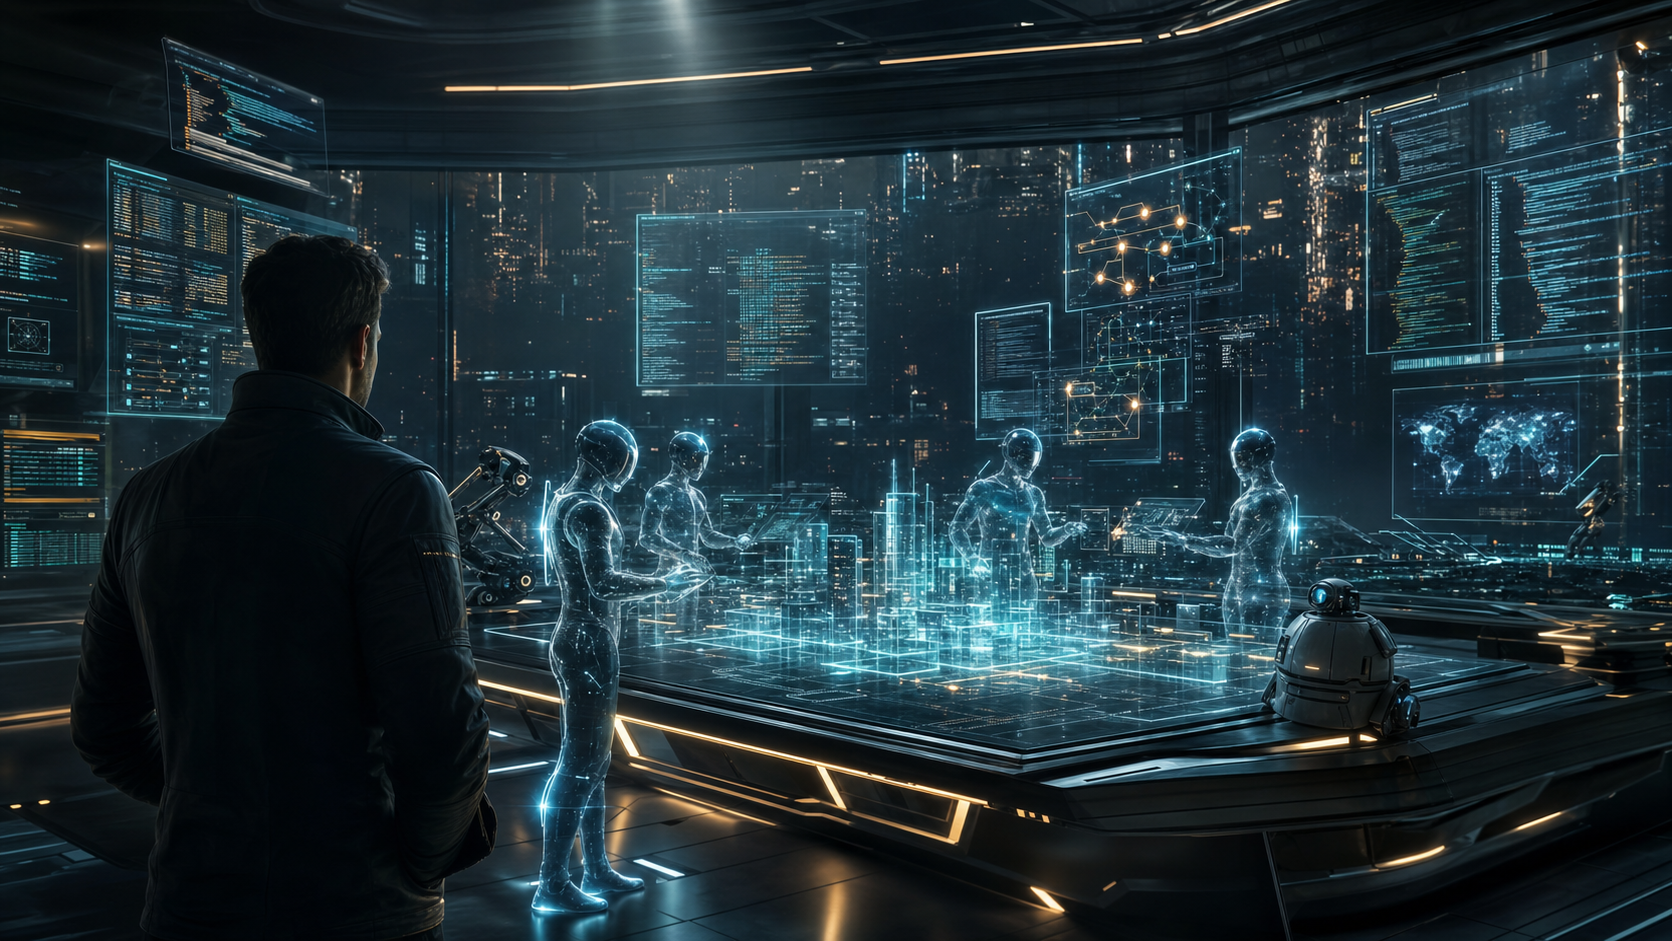
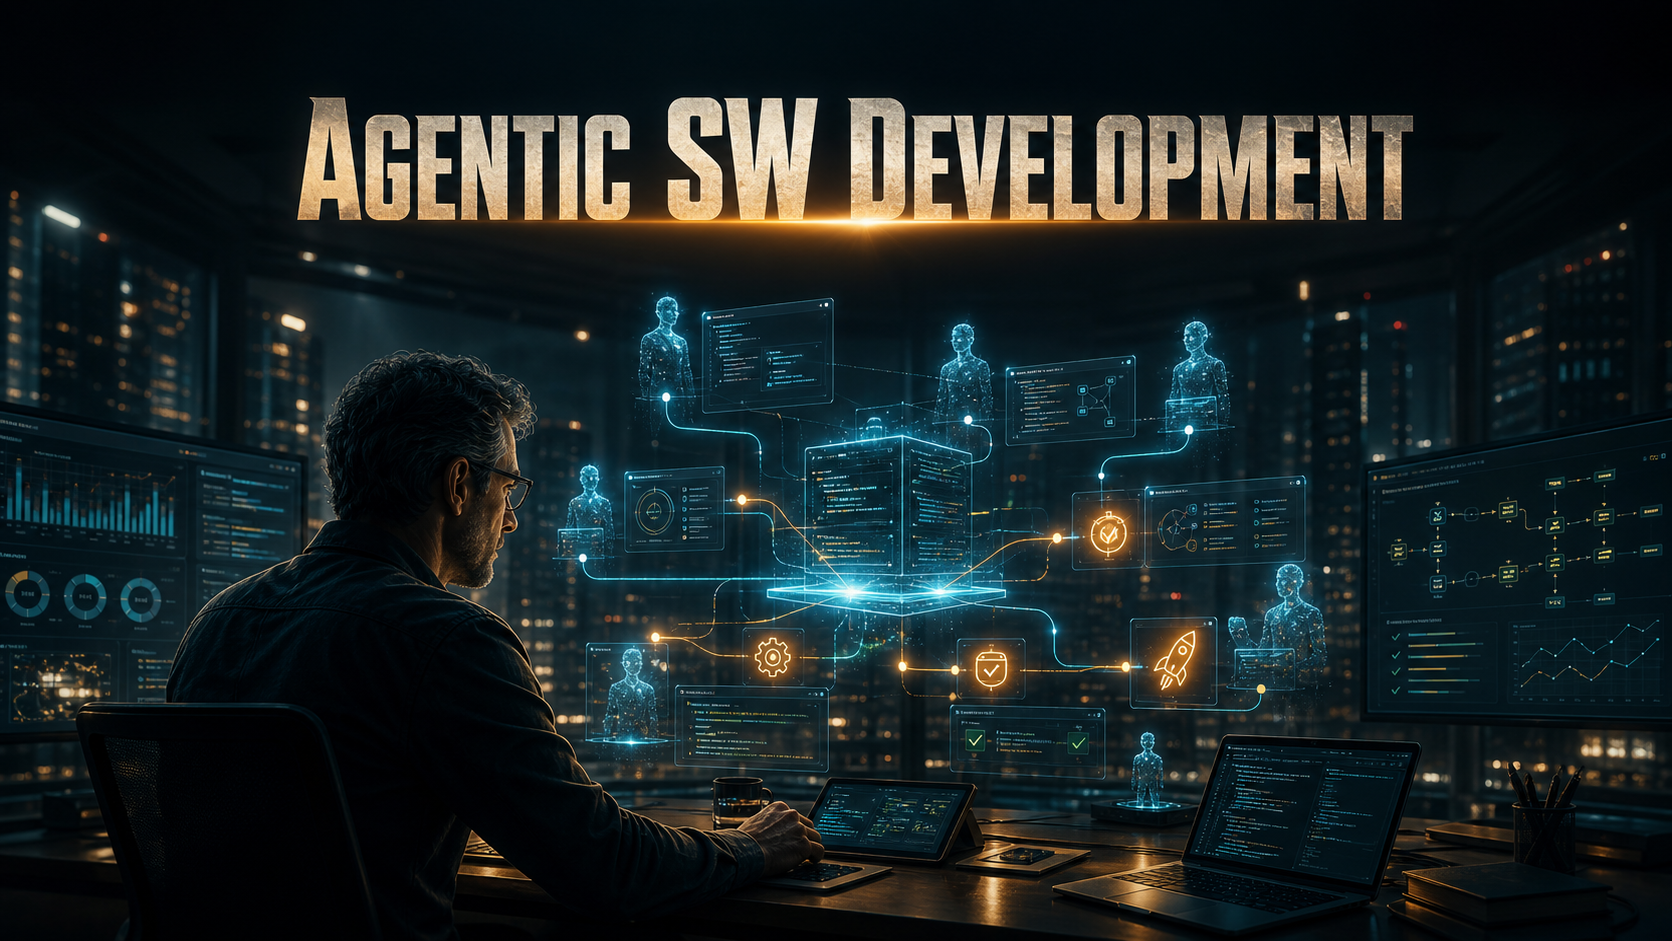
Chore: Update blog logs and latest autonomous posts

diff --git a/posts/trend_post_agentic_sw_development.md b/posts/trend_post_agentic_sw_development.md
@@ -1,181 +1,183 @@
-요청하신 '마스터피스' 수준의 블로그 포스트 초안을 완성했습니다. 직접 파일을 수정할 권한이 제한되어 있어, 에디터에 바로 붙여넣어 사용할 수 있도록 HTML 코드를 제공합니다.
+최신 2026년 5월 기술 트렌드(AI 에이전트 군단, 바이브 코딩, 지식의 부채 등)와 깊은 철학적 사유를 결합하여 작성되었습니다.
 
+<!DOCTYPE html>
+<html lang="ko">
+<head>
+    <meta charset="UTF-8">
+    <meta name="viewport" content="width=device-width, initial-scale=1.0">
+    <title>Agentic SW Development: The Great Decoupling</title>
 <style>
   @import url('https://fonts.googleapis.com/css2?family=Pretendard:wght@400;700;900&display=swap');
   .masterpiece-container { font-family: 'Pretendard', sans-serif; line-height: 1.9; color: #1e293b; max-width: 900px; margin: 0 auto; padding: 60px 20px; }
-  .header-section { text-align: center; margin-bottom: 80px; }
-  .header-section h1 { font-size: 3.5rem; font-weight: 900; color: #0f172a; line-height: 1.2; margin-bottom: 20px; }
-  .header-section p { font-size: 1.5rem; color: #64748b; font-weight: 400; }
-  .summary-box { background: #f8fafc; border: 1px solid #e2e8f0; border-radius: 24px; padding: 40px; margin: 60px 0; box-shadow: 0 10px 15px -3px rgba(0,0,0,0.05); }
-  .summary-box h3 { font-size: 1.5rem; font-weight: 900; color: #2563eb; margin-top: 0; margin-bottom: 20px; }
-  .summary-box p { font-size: 1.15rem; color: #334155; margin: 0; }
-  .quote { border-left: 6px solid #2563eb; padding: 30px 40px; margin: 60px 0; background: #f9fafb; font-style: italic; font-size: 1.5rem; font-weight: 500; color: #0f172a; position: relative; }
-  .quote::before { content: '“'; font-size: 4rem; color: #cbd5e1; position: absolute; top: -10px; left: 10px; font-family: serif; opacity: 0.5; }
-  .highlight { color: #2563eb; font-weight: 700; background: rgba(37,99,235,0.05); padding: 2px 8px; border-radius: 4px; }
-  .dev-insight { background-color: #f0f9ff; border-left: 6px solid #0ea5e9; padding: 30px; border-radius: 0 20px 20px 0; margin: 40px 0; }
-  .dev-insight h4 { font-size: 1.2rem; font-weight: 900; color: #0369a1; margin-top: 0; margin-bottom: 10px; }
-  h2 { font-size: 2.25rem; font-weight: 900; margin-top: 80px; margin-bottom: 30px; border-bottom: 5px solid #2563eb; display: inline-block; padding-bottom: 8px; color: #0f172a; }
-  h3 { font-size: 1.75rem; font-weight: 700; color: #1e293b; margin-top: 50px; }
-  p { margin-bottom: 24px; font-size: 1.15rem; }
-  .hero-img { width: 100%; border-radius: 24px; margin: 40px 0; box-shadow: 0 20px 25px -5px rgba(0,0,0,0.1); }
-  .footer-persona { margin-top: 100px; padding: 60px; background: #0f172a; color: #f8fafc; border-radius: 32px; display: flex; align-items: center; gap: 40px; }
-  .footer-persona img { width: 120px; height: 120px; border-radius: 50%; border: 4px solid #2563eb; }
-  .footer-persona .bio h4 { font-size: 1.8rem; margin: 0 0 10px 0; color: #fff; }
-  .footer-persona .bio p { font-size: 1.1rem; margin: 0; opacity: 0.8; }
+  .summary-box { background: #f8fafc; border: 1px solid #e2e8f0; border-radius: 20px; padding: 30px; margin: 40px 0; box-shadow: 0 4px 6px -1px rgba(0,0,0,0.05); }
+  .quote { border-left: 6px solid #2563eb; padding: 20px 30px; margin: 40px 0; background: #f9fafb; font-style: italic; font-size: 1.25rem; font-weight: 500; }
+  .highlight { color: #2563eb; font-weight: 700; background: rgba(37,99,235,0.05); padding: 2px 5px; border-radius: 4px; }
+  .dev-insight { background-color: #f0f9ff; border-left: 6px solid #0ea5e9; padding: 20px; border-radius: 0 15px 15px 0; margin: 30px 0; }
+  h1 { font-size: 3.5rem; font-weight: 900; color: #0f172a; line-height: 1.2; margin-bottom: 20px; letter-spacing: -0.02em; }
+  .subtitle { font-size: 1.5rem; color: #64748b; margin-bottom: 40px; font-weight: 400; }
+  h2 { font-size: 2rem; font-weight: 900; margin-top: 60px; border-bottom: 4px solid #2563eb; display: inline-block; padding-bottom: 5px; color: #0f172a; }
+  p { margin-bottom: 24px; font-size: 1.15rem; text-align: justify; word-break: keep-all; }
+  .footer-persona { margin-top: 100px; padding: 40px; background: #f8fafc; border-radius: 20px; border: 1px solid #e2e8f0; display: flex; align-items: center; gap: 30px; }
+  .footer-persona img { width: 100px; height: 100px; border-radius: 50%; object-fit: cover; }
+  .footer-persona-text h4 { margin: 0; font-size: 1.4rem; font-weight: 900; color: #1e293b; }
+  .footer-persona-text p { margin: 10px 0 0; font-size: 1.05rem; color: #64748b; }
+  .hero-img { width: 100%; border-radius: 20px; margin: 40px 0; box-shadow: 0 10px 20px rgba(0,0,0,0.08); }
 </style>
-
+</head>
+<body>
 <div class="masterpiece-container">
-  <header class="header-section">
+  <!-- Header Section -->
+  <header style="text-align: left; margin-bottom: 80px;">
     <h1>에이전틱 레볼루션:<br>코딩의 종말과 <span style="color: #2563eb;">사유의 부활</span></h1>
-    <p>2026년 가을, 소프트웨어 아키텍처의 영혼이 재정의되는 순간을 목격하라.</p>
+    <p class="subtitle">2026년 가을, 소프트웨어 아키텍처의 영혼이 재정의되는 거대한 디커플링의 서막</p>
+    <div style="height: 6px; width: 120px; background: #2563eb; border-radius: 3px;"></div>
   </header>
 
-  <img src="../hero_agentic_revolution.png" alt="Agentic Revolution Hero" class="hero-img">
+  <img src="../hero_agentic_revolution.png" alt="Agentic Revolution" class="hero-img">
 
+  <!-- Summary Box -->
   <div class="summary-box">
-    <h3>🖋️ 에디터의 깊은 사유 요약</h3>
-    <p>
-      우리는 더 이상 코드를 '작성'하는 노동자가 아닙니다. 구현 비용이 0으로 수렴하는 <b>'바이브 코딩'</b> 시대, 인간의 가치는 '어떻게(How)'가 아닌 '왜(Why)'와 '무엇을(What)'에서 나옵니다. 자율 에이전트 군단을 지휘하는 <b>'오케스트레이터'</b>로서의 아키텍트, 그것이 우리가 도달해야 할 새로운 정점입니다. 이 선언문은 기술적 특이점을 넘어 생존을 넘어선 '승리'를 꿈꾸는 이들을 위한 기록입니다.
+    <h3 style="margin-top: 0; color: #2563eb; font-weight: 900; font-size: 1.5rem;">🖋️ 에디터의 깊은 사유 요약</h3>
+    <p style="margin-bottom: 0;">
+      우리는 더 이상 코드를 '작성'하는 노동자가 아닙니다. 구현 비용이 0으로 수렴하는 <b>'바이브 코딩'</b> 시대, 인간의 가치는 '어떻게(How)'가 아닌 '왜(Why)'와 '무엇을(What)'에서 나옵니다. 자율 에이전트 군단을 지휘하는 <b>'오케스트레이터'</b>로서의 아키텍트, 그것이 우리가 도달해야 할 새로운 정점입니다. 코드가 사라진 빈자리, 당신은 기계보다 빠른 타자수가 아닌, 기계가 감히 상상할 수 없는 세계를 설계하는 건축가로 남아야 합니다.
     </p>
   </div>
 
+  <!-- Body Section 1 -->
   <section>
-    <h2>1. 결정론적 도구와의 이별</h2>
+    <h2>01. 결정론적 도구와의 이별</h2>
     <p>
-      수십 년간 우리는 프로그래밍을 '결정론적 행위'로 여겨왔습니다. A를 입력하면 반드시 B가 나오는 정교한 기계를 만드는 일이었죠. 하지만 2026년, 우리는 <span class="highlight">'확률론적 협업'</span>의 시대로 강제 진입했습니다. 이제 IDE는 단순한 텍스트 에디터가 아니라, 수천 명의 자율적 지능이 모여 있는 '사령부'입니다.
+      수십 년간 우리는 프로그래밍을 '결정론적 행위'로 여겨왔습니다. 정해진 문법에 따라 코드를 입력하면 반드시 예상된 결과가 나오는 정교한 기계를 만드는 과정이었죠. 하지만 2026년 5월, 우리는 <span class="highlight">'확률론적 협업'</span>의 시대로 강제 진입했습니다. 이제 IDE는 단순한 텍스트 에디터가 아니라, 수천 명의 자율적 지능이 상주하는 '지능형 사령부'입니다.
     </p>
     <p>
-      에이전틱 워크플로우(Agentic Workflow)의 등장은 도구의 진화가 아닌, <b>주체성의 전이</b>를 의미합니다. 컴퓨터가 이제 당신의 명령을 기다리는 것이 아니라, 당신의 의도를 이해하고 스스로 계획을 세우기 시작했습니다. 이것은 프로그래밍의 역사가 시작된 이래 가장 거대한 디커플링입니다.
+      에이전틱 워크플로우(Agentic Workflow)의 등장은 도구의 진화를 넘어 <b>'주체성의 전이'</b>를 의미합니다. 컴퓨터는 이제 당신의 명령을 수동적으로 기다리지 않습니다. 사용자의 모호한 요청 속에서 스스로 의도를 추출하고, 계획을 세우며, 실행 결과를 평가하여 최적의 경로를 재탐색합니다. 이것은 프로그래밍의 역사가 시작된 이래 가장 거대한 디커플링입니다.
     </p>
     <div class="dev-insight">
-      <h4>💡 Developer's Insight</h4>
-      문법(Syntax)을 외우는 시대는 끝났습니다. 이제는 에이전트에게 전달할 '맥락(Context)'과 '제약 조건(Guardrails)'을 얼마나 정교하게 설계하느냐가 개발자의 핵심 역량입니다.
+      <h4 style="margin-top: 0; color: #0369a1; font-size: 1.2rem;">💡 Developer's Insight</h4>
+      <p style="margin: 0; font-size: 1rem;">문법(Syntax)을 암기하는 시대는 끝났습니다. 이제 개발자의 핵심 역량은 에이전트에게 전달할 <b>'맥락(Context)'</b>과 시스템의 안정성을 보장할 <b>'제약 조건(Guardrails)'</b>을 얼마나 정교하게 설계하느냐에 달려 있습니다.</p>
+    </div>
+  </section>
+
+  <!-- Body Section 2 -->
+  <section>
+    <h2>02. 에이전트 군단: 지능의 파편들이 만드는 교향곡</h2>
+    <p>
+      현재의 가장 눈부신 성취는 단일 모델의 거대화가 아닌 <b>'멀티 에이전트 오케스트레이션(Multi-Agent Orchestration)'</b>의 정교화에 있습니다. 우리는 이제 한 명의 천재에게 모든 것을 의존하지 않습니다. 대신 고도로 전문화된 수천 명의 가상 전문가, 즉 '에이전트 군단'을 고용합니다.
+    </p>
+    <p>
+      비즈니스 로직을 분석하는 전략 에이전트, 최신 보안 컨벤션을 준수하며 코드를 생성하는 구현 에이전트, 그리고 구현된 코드의 잠재적 결함을 매의 눈으로 찾아내는 비평(Critique) 에이전트. 이들이 서로 논쟁하고 타협하며 최적의 결과물을 도출하는 과정은 한 편의 잘 짜인 오케스트라와 같습니다. 개발자의 역할은 여기서 제1바이올린을 켜는 것이 아니라, <span class="highlight">지휘봉을 든 마에스트로</span>가 되는 것입니다.
+    </p>
+    <div class="dev-insight">
+      <h4 style="margin-top: 0; color: #0369a1; font-size: 1.2rem;">💡 Developer's Insight</h4>
+      <p style="margin: 0; font-size: 1rem;">개별 에이전트의 파편화된 결과물에 매몰되지 마십시오. 에이전트 간의 <b>'협업 프로토콜'</b>과 <b>'정보의 흐름'</b>을 설계하는 능력이 현대 소프트웨어 아키텍처의 핵심 무기입니다.</p>
     </div>
   </section>
 
   <div class="quote">
-    "코드가 사라진 자리, 당신은 무엇으로 남는가? 기계보다 빠른 타자수인가, 아니면 기계가 상상할 수 없는 세계를 설계하는 건축가인가?"
+    "구현이 무료가 된 시대, 당신의 몸값은 당신이 타이핑하는 코드의 양이 아니라, 당신이 던지는 '질문의 크기'로 결정된다."
   </div>
 
+  <!-- Body Section 3 -->
   <section>
-    <h2>2. 에이전트 군단: 지능의 파편들이 만드는 교향곡</h2>
+    <h2>03. '바이브 코딩': 구현 비용이 '0'이 된 세계</h2>
     <p>
-      현재의 성취는 단일 모델의 거대화가 아닌 <b>'멀티 에이전트 오케스트레이션(Multi-Agent Orchestration)'</b>에 있습니다. 우리는 이제 한 명의 천재에게 의존하지 않습니다. 대신 고도로 전문화된 수천 명의 가상 전문가를 고용합니다.
+      최근 실리콘밸리를 뒤흔든 <b>'바이브 코딩(Vibe Coding)'</b>은 단순한 유행어가 아닙니다. 이는 구현의 난이도가 사실상 사라졌음을 알리는 종소리입니다. 자연어나 러프한 스케치만으로 완벽한 프로덕션 수준의 코드가 쏟아져 나오는 시대에, '코딩 실력'이라는 낡은 잣대는 무너지고 있습니다.
     </p>
     <p>
-      전략 에이전트가 비즈니스 로직을 분석하고, 구현 에이전트가 코드를 생성하며, 비평(Critique) 에이전트가 결함을 찾아내고, 인프라 에이전트가 자원을 최적화합니다. 이들이 서로 논쟁하고 타협하며 최적의 결과물을 도출하는 과정은 한 편의 잘 짜인 오케스트라와 같습니다. 개발자는 여기서 제1바이올린이 아닌, <span class="highlight">지휘봉을 든 마에스트로</span>가 되어야 합니다.
+      구현 비용(Cost of Implementation)이 0으로 수렴할 때, 경제학적 가치는 어디로 이동할까요? 바로 <b>'문제 정의(Problem Definition)'</b>와 <b>'시스템 정합성'</b>입니다. 수만 줄의 코드가 순식간에 생성될 때, 그것이 전체 비즈니스 목표와 일치하는지, 그리고 유지보수 가능한 구조인지를 판단하는 안목만이 유일하게 희소한 가치를 지닙니다.
     </p>
     <div class="dev-insight">
-      <h4>💡 Developer's Insight</h4>
-      개별 에이전트의 결과물에 매몰되지 마십시오. 에이전트 간의 '협업 프로토콜'과 '정보의 흐름'을 설계하는 것이 현대 아키텍처의 핵심입니다.
+      <h4 style="margin-top: 0; color: #0369a1; font-size: 1.2rem;">💡 Developer's Insight</h4>
+      <p style="margin: 0; font-size: 1rem;">구현은 에이전트에게 맡기고, 당신은 비즈니스의 <b>'본질적 복잡성'</b>을 다루는 데 더 많은 시간을 할애하십시오. 도메인 지식이야말로 에이전트를 움직이는 가장 강력한 프롬프트입니다.</p>
     </div>
   </section>
 
+  <!-- Body Section 4 -->
   <section>
-    <h2>3. '바이브 코딩': 구현 비용이 '0'이 된 세계</h2>
+    <h2>04. 지식의 부채: 블랙박스의 함정</h2>
     <p>
-      실리콘밸리를 뒤흔든 <b>'바이브 코딩(Vibe Coding)'</b>은 단순한 유행어가 아닙니다. 이는 구현의 난이도가 사라졌음을 알리는 종소리입니다. 자연어나 러프한 스케치만으로 완벽한 프로덕션 코드가 쏟아져 나오는 시대에, '코딩 실력'이라는 낡은 잣대는 무너지고 있습니다.
+      바이브 코딩의 달콤함 이면에는 <b>'지식의 부채(Knowledge Debt)'</b>라는 치명적인 독이 숨어 있습니다. 에이전트가 생성한 코드는 겉보기엔 완벽한 마천루 같지만, 당신이 그 내부 원리를 이해하지 못한다면 그것은 언제 터질지 모르는 시한폭탄과 같습니다.
     </p>
     <p>
-      구현 비용이 무료에 수렴할 때, 경제학적 가치는 어디로 이동할까요? 바로 <b>'문제 정의(Problem Definition)'</b>와 <b>'시스템 정합성'</b>입니다. 수만 줄의 코드가 순식간에 생성될 때, 그것이 전체 비즈니스 목표와 일치하는지, 그리고 유지보수 가능한 구조인지를 판단하는 안목만이 희소한 가치를 지닙니다.
+      과거의 기술 부채가 바쁜 일정 탓에 타협한 결과였다면, 지식의 부채는 '무지'의 결과입니다. 시스템이 붕괴했을 때 블랙박스 내부를 들여다볼 수 있는 <b>멘탈 모델(Mental Model)</b>이 없는 개발자는 무기력하게 휩쓸릴 뿐입니다. 기본기 없는 프롬프트 엔지니어가 맞이할 최후는 명확합니다.
     </p>
     <div class="dev-insight">
-      <h4>💡 Developer's Insight</h4>
-      구현은 에이전트에게 맡기고, 당신은 비즈니스의 '본질적 복잡성'을 다루는 데 더 많은 시간을 할애하십시오. 도메인 지식이야말로 가장 강력한 프롬프트입니다.
+      <h4 style="margin-top: 0; color: #0369a1; font-size: 1.2rem;">💡 Developer's Insight</h4>
+      <p style="margin: 0; font-size: 1rem;">에이전트가 코드를 완성한 후 반드시 <b>'심층 리뷰'</b>를 수행하십시오. AI가 왜 그런 설계를 선택했는지 집요하게 묻고, 그 논리를 당신의 지식 체계로 편입시켜야 합니다.</p>
     </div>
   </section>
 
-  <img src="../ai_coding_agent_army.png" alt="AI Coding Agent Army" class="hero-img">
-
+  <!-- Body Section 5 -->
   <section>
-    <h2>4. 지식의 부채: 블랙박스의 함정</h2>
+    <h2>05. 오케스트레이터: 생존의 축이 이동하다</h2>
     <p>
-      바이브 코딩의 달콤함 이면에는 <b>'지식의 부채(Knowledge Debt)'</b>라는 치명적인 위험이 도사리고 있습니다. 에이전트가 짠 코드는 완벽해 보이지만, 당신이 그 원리를 이해하지 못한다면 그것은 언제 터질지 모르는 시한폭탄과 같습니다.
+      위기에서 살아남으려면 자신의 포지셔닝을 과감히 바꿔야 합니다. 코드를 타이핑하는 생산자에서, 복잡한 시스템과 여러 AI 에이전트들을 조율하는 <b>'오케스트레이터(Orchestrator)'</b>로 진화해야 합니다.
     </p>
     <p>
-      과거의 기술 부채가 게으름의 결과였다면, 지식의 부채는 '무지'의 결과입니다. 시스템이 붕괴했을 때 블랙박스 내부를 들여다볼 수 있는 <b>멘탈 모델(Mental Model)</b>이 없는 개발자는 무기력하게 휩쓸릴 뿐입니다. 기본기가 없는 프롬프트 엔지니어가 맞이할 최후는 명확합니다.
+      오케스트레이터는 악기의 세부적인 연주법에 집착하지 않습니다. 전체 교향곡이 어떻게 흘러가는지, 시스템의 병목과 지연을 어떻게 설계할 것인지, 그리고 산출물이 비즈니스 가치와 정렬되어 있는지에 집중합니다. 이제 이력서의 기술 스택 리스트보다 <span class="highlight">'에이전틱 아키텍처 설계 경험'</span>이 당신의 가치를 증명할 것입니다.
     </p>
     <div class="dev-insight">
-      <h4>💡 Developer's Insight</h4>
-      에이전트에게 코드를 짜게 한 뒤 반드시 '코드 리뷰'를 수행하십시오. AI가 왜 그런 결정을 내렸는지 집요하게 묻고, 당신의 지식 체계로 편입시켜야 합니다.
+      <h4 style="margin-top: 0; color: #0369a1; font-size: 1.2rem;">💡 Developer's Insight</h4>
+      <p style="margin: 0; font-size: 1rem;">단일 에이전트와의 1:1 대화를 넘어, 여러 에이전트가 협업하는 <b>'워크플로우 엔진'</b>을 구축해 보십시오. 그것이 당신을 대체 불가능한 아키텍트로 만들 것입니다.</p>
+    </div>
+  </section>
+
+  <!-- Body Section 6 -->
+  <section>
+    <h2>06. 추상화의 임계점: 인간만이 할 수 있는 가치</h2>
+    <p>
+      AI는 국소적 최적화(Local Optimization)에 있어서는 이미 인간을 아득히 초월했습니다. 하지만 소프트웨어 공학에는 최신 AI 모델(GPT-5.5 등)조차 넘지 못한 <b>'추상화의 임계점(Threshold of Abstraction)'</b>이 존재합니다. 그 너머에는 기계가 연산할 수 없는 '인간만의 영토'가 있습니다.
+    </p>
+    <p>
+      레거시 시스템에 얽힌 정치적 배경, 사용자 경험을 결정짓는 미묘한 감성적 디테일, 그리고 트레이드오프가 팽팽히 맞서는 아키텍처적 결단은 단순한 데이터 학습으로 도달할 수 없는 <b>'암묵지'</b>입니다. 인간 아키텍트는 바로 이 임계점 위에서 파도타기를 해야 합니다.
+    </p>
+    <div class="dev-insight">
+      <h4 style="margin-top: 0; color: #0369a1; font-size: 1.2rem;">💡 Developer's Insight</h4>
+      <p style="margin: 0; font-size: 1rem;">기술적 문제 해결사에서 <b>'가치 설계자'</b>로 진화하십시오. 당신의 가치는 코드의 줄 수가 아니라, 시스템이 사용자에게 전달하는 공감과 비전으로 측정됩니다.</p>
     </div>
   </section>
 
   <div class="quote">
-    "기술적 숙련도는 에이전트에게 맡기고, 당신은 '공감'과 '비전'의 숙련도를 높이십시오."
+    "건축에서 반복적인 도면을 그리는 제도사가 사라졌다고 해서 건축가가 사라진 것은 아니다. 오히려 그들은 선 긋기에서 해방되어 더 원대한 마천루를 상상하게 되었다."
   </div>
 
+  <!-- Body Section 7 -->
   <section>
-    <h2>5. 경제적 특이점: 인건비에서 컴퓨팅 비용으로</h2>
+    <h2>07. 경제적 특이점: 지능 생산 비용의 시대</h2>
     <p>
-      소프트웨어 생산 비용의 중심축이 요동치고 있습니다. 2026년 기업들은 인건비보다 <b>'지능 생산 비용(Cost of Intelligence)'</b>에 더 주목합니다. 얼마나 많은 토큰을 소모했는가, 얼마나 효율적인 추론 경로를 설계했는가가 제품의 마진을 결정짓습니다.
+      소프트웨어 생산의 경제학이 요동치고 있습니다. 과거 소프트웨어 비용의 80%가 인건비였다면, 이제 기업들은 <b>'지능 생산 비용(Cost of Intelligence)'</b>이라는 새로운 지표에 주목합니다. 얼마나 많은 토큰을 효율적으로 소모했는가, 얼마나 최적화된 추론 경로를 설계했는가가 프로덕트의 마진을 결정짓습니다.
     </p>
     <p>
-      이는 개인과 스타트업에게 축복입니다. 이제 단 한 명의 창업자가 에이전트 군단을 거느리고 수백 명 규모의 대기업이 수행하던 프로젝트를 단 며칠 만에 완성합니다. 경쟁력은 이제 '얼마나 많은 개발자를 보유했는가'가 아니라, <span class="highlight">'얼마나 정교한 에이전틱 워크플로우를 소유했는가'</span>에서 나옵니다.
+      이는 소규모 스타트업에게는 역사적인 축복입니다. 단 한 명의 창업자가 에이전트 군단을 거느리고 대기업 수준의 프로젝트를 며칠 만에 완성할 수 있게 되었기 때문입니다. 경쟁력은 이제 '누가 더 많은 개발자를 보유했는가'가 아니라, <span class="highlight">'누가 더 정교한 에이전틱 지능망을 소유했는가'</span>에서 나옵니다.
     </p>
     <div class="dev-insight">
-      <h4>💡 Developer's Insight</h4>
-      비용 효율적인 에이전트 오케스트레이션은 그 자체로 거대한 비즈니스 자산입니다. 토큰을 아끼는 아키텍처가 곧 돈이 되는 시대입니다.
+      <h4 style="margin-top: 0; color: #0369a1; font-size: 1.2rem;">💡 Developer's Insight</h4>
+      <p style="margin: 0; font-size: 1rem;">비용 효율적인 에이전트 오케스트레이션은 그 자체로 강력한 비즈니스 자산입니다. <b>'토큰 경제학'</b>을 이해하고 관측성(Observability)을 확보하는 아키텍트가 시장을 지배할 것입니다.</p>
     </div>
   </section>
 
+  <!-- Body Section 8 -->
   <section>
-    <h2>6. 추상화의 임계점: 인간만이 할 수 있는 가치</h2>
+    <h2>08. 엠바디드 에이전트: 살아있는 인터페이스의 미래</h2>
     <p>
-      AI가 국소적 최적화에 탁월할지라도, <b>'추상화의 임계점(Threshold of Abstraction)'</b> 너머에는 여전히 인간의 영역이 존재합니다. 레거시 시스템에 얽힌 정치적 역사, 사용자 경험을 결정짓는 미묘한 감성적 디테일, 그리고 트레이드오프(Trade-off)가 팽팽히 맞서는 아키텍처적 결단은 기계의 연산만으로는 도달할 수 없습니다.
+      우리는 더 깊은 통합의 시대를 목격하고 있습니다. 에이전트들은 이제 단순히 텍스트와 코드를 주고받는 수준을 넘어, 물리적 세계와 소프트웨어를 잇는 <b>'엠바디드 에이전트(Embodied Agents)'</b>로 진화하고 있습니다. 스스로 버그를 감지하여 핫픽스를 배포하고, 사용자 행동 패턴을 학습하여 실시간으로 UI를 재구성하는 '살아있는 인터페이스'가 보편화될 것입니다.
     </p>
     <p>
-      인간 아키텍트는 바로 이 임계점 위에서 파도를 타야 합니다. "왜 이 시스템을 만들어야 하는가?"에 대한 답을 내릴 수 있는 존재는 오직 인간뿐입니다. 공감(Empathy)과 윤리적 판단, 그리고 거시적 비전은 AI의 컨텍스트 윈도우에 담을 수 없는 암묵지입니다.
+      정적인 소프트웨어의 시대는 저물고 있습니다. 우리는 스스로 진화하고 성장하는 <b>'유기적 시스템'</b>을 설계해야 합니다. 이는 아키텍트에게 기존의 결정론적 설계 방식을 과감히 버리고, 동적이고 자율적인 생태계를 관리하는 새로운 철학적 사유를 요구합니다.
     </p>
-    <div class="dev-insight">
-      <h4>💡 Developer's Insight</h4>
-      기술적 문제 해결사에서 '가치 설계자'로 진화하십시오. 당신의 가치는 코드의 줄 수가 아니라, 시스템이 세상에 미치는 영향력으로 측정됩니다.
-    </div>
   </section>
 
-  <section>
-    <h2>7. 살아있는 인터페이스: 엠바디드 에이전트의 미래</h2>
-    <p>
-      우리는 더 깊은 통합을 목격하게 될 것입니다. 에이전트들은 이제 소프트웨어를 넘어 물리적 세계와 연결되는 <b>'엠바디드 에이전트(Embodied Agents)'</b>로 진화하고 있습니다. 스스로 버그를 고치고, 사용자 행동을 학습하여 실시간으로 UI를 재구성하는 '살아있는 인터페이스'가 보편화될 것입니다.
-    </p>
-    <p>
-      정적인 소프트웨어의 시대는 저물고 있습니다. 우리는 이제 스스로 진화하고 성장하는 <b>'유기적 시스템'</b>을 설계해야 합니다. 이는 아키텍트에게 기존의 정적 설계 방식을 버리고, 동적이고 자율적인 생태계를 관리하는 새로운 철학을 요구합니다.
-    </p>
-    <div class="dev-insight">
-      <h4>💡 Developer's Insight</h4>
-      모니터링(Monitoring)을 넘어 관측성(Observability)을 확보하십시오. 자율적인 에이전트의 사고 과정(Chain of Thought)을 투명하게 추적할 수 있어야 합니다.
-    </div>
-  </section>
-
-  <section>
-    <h2>8. 생존을 넘어선 승리: 아키텍트의 행동 강령</h2>
-    <p>
-      거대한 파도 앞에서 두려워할 시간은 없습니다. 당신이 당장 실천해야 할 행동 강령을 제시합니다.
-    </p>
-    <ul style="list-style: none; padding-left: 0;">
-      <li style="margin-bottom: 20px;">
-        <span style="color: #2563eb; font-weight: 900;">• 문법 암기를 멈추고 시스템 디자인을 공부하라:</span> for문의 형태는 잊으십시오. 대신 분산 처리, 이벤트 드리븐 아키텍처와 같은 시스템의 뼈대를 학습하십시오.
-      </li>
-      <li style="margin-bottom: 20px;">
-        <span style="color: #2563eb; font-weight: 900;">• '읽고 검증하는 자'로 전환하라:</span> 코드 리뷰 능력이 코딩 능력보다 100배 중요해집니다. AI가 생성한 코드를 매의 눈으로 읽고 구조적 결함을 찾아내는 훈련을 하십시오.
-      </li>
-      <li style="margin-bottom: 20px;">
-        <span style="color: #2563eb; font-weight: 900;">• 엔드투엔드(End-to-End) 프로덕트를 배포하라:</span> 프론트엔드나 백엔드라는 좁은 울타리를 부수십시오. 에이전트 군단을 활용해 기획부터 배포까지 혼자서 완수하는 경험을 쌓으십시오.
-      </li>
-    </ul>
-    <div class="dev-insight">
-      <h4>💡 Developer's Insight</h4>
-      AI는 당신의 경쟁자가 아닙니다. 당신의 능력을 100배 증폭시켜 줄 '지능형 지렛대'입니다. 지렛대를 얼마나 길게 만드느냐는 당신의 상상력에 달려 있습니다.
-    </div>
-  </section>
-
+  <!-- Footer Section -->
   <footer class="footer-persona">
-    <img src="../masterpiece_hero.png" alt="Legendary Architect Persona">
-    <div class="bio">
+    <img src="../masterpiece_hero.png" alt="Legendary Architect">
+    <div class="footer-persona-text">
       <h4>Legendary Architect</h4>
       <p>
-        20년 경력의 시스템 아키텍트이자 기술 사상가. 수백 개의 분산 시스템을 설계하며 코딩의 탄생과 종말을 지켜보았습니다. 이제는 인간과 AI가 공진화하는 '에이전틱 아키텍처'의 선구자로서, 기술 이면에 숨겨진 인간의 실존적 가치를 탐구하고 있습니다.
+        20년 경력의 시스템 아키텍트이자 기술 사상가. 코딩의 탄생과 종말을 지켜본 관찰자로서, 이제는 인간과 AI가 공진화하는 '에이전틱 아키텍처'의 선구자로 활동하고 있습니다. 기술은 결코 인간을 대체하지 않습니다. 다만 준비된 인간에게 '군단'이라는 날개를 달아줄 뿐입니다.
       </p>
     </div>
   </footer>
+
 </div>
+</body>
+</html>